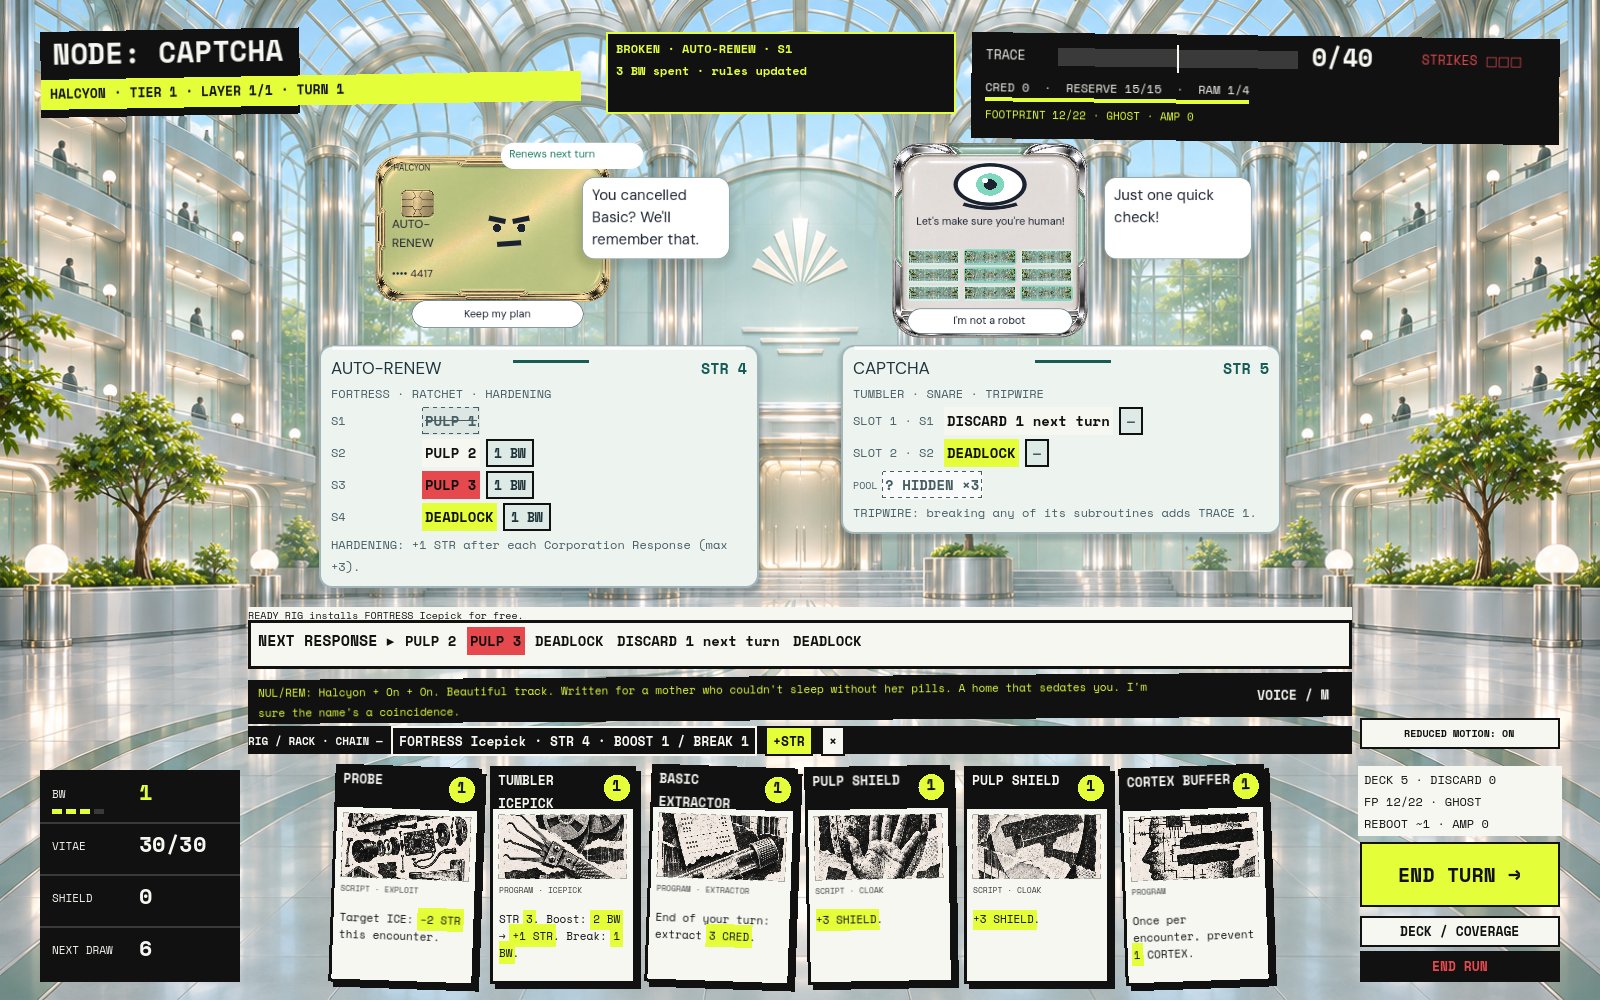
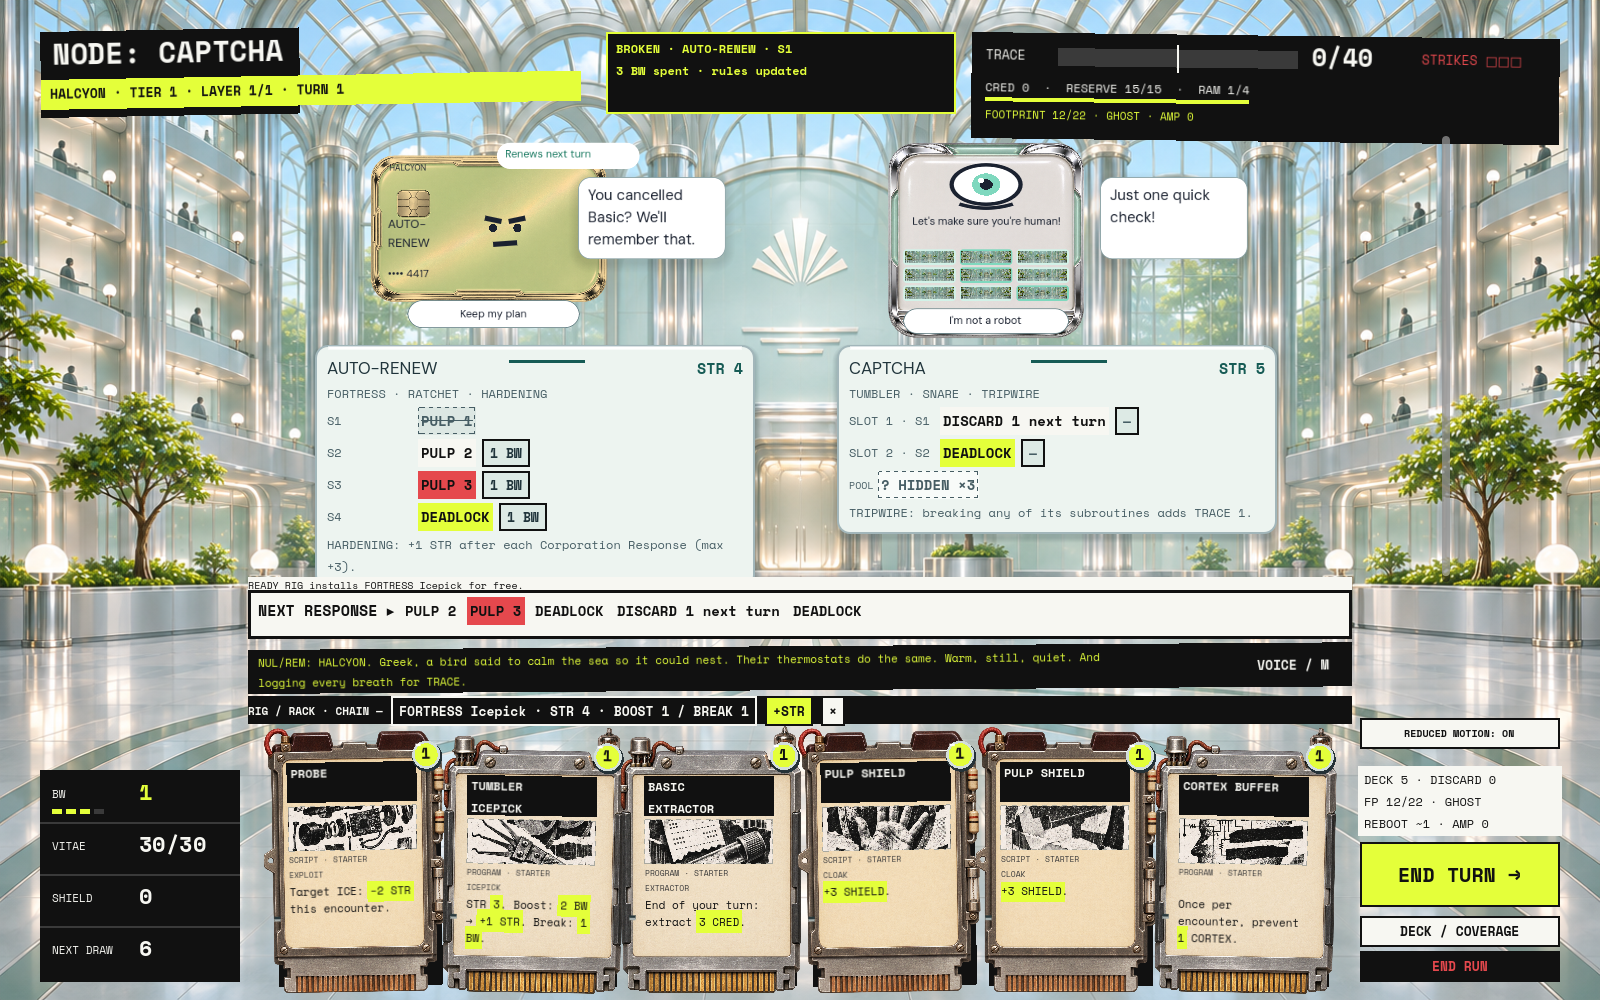
CARDS-001: Add heavy 1950s type-specific cartridges, external BW tabs and restrained rarity finishes

diff --git a/docs/REDLINE_DEVELOPMENT_LOG.md b/docs/REDLINE_DEVELOPMENT_LOG.md
@@ -515,3 +515,13 @@ GENERALIST also has two stalls, counted separately from deaths. Mean end decks G
 **Validation:** Godot 4.3 import and 357 rules checks pass; Friendly Lie 170 checks pass; all five Chrome screenshot stages pass, including actual legal/incompatible native drops and no payment on invalid drops. Refreshed ten full-screen PNGs and the download ZIP. Calculated text contrast: slate/enamel 11.64:1, muted text/enamel 6.25:1, muted text/broken chip 5.51:1, teal/enamel 7.06:1. No rule values changed. The five-step samples in the existing PR are updated in place.
 
 **Interpretations to confirm:** enamel plaques stay clean even in Mask off, reinforcing the corporation's immaculate administrative cruelty. Pearl #EDF4F0, slate #20343B and teal #165B55 are working presentation colors. Final art/fidelity approval remains with the designer. PR #12 remains open targeting `codex/halcyon-playtest-stabilization`; merge is pending that approval.
+
+## 2026-11-17 — CARDS-001: heavy type-specific 1950s slot cartridges (Codex)
+
+**Designer request:** distinct templates for Scripts/other types, subtle common/uncommon/rare differences, vacuum tubes/transistors/exposed wiring/metal/resistors; cards should feel heavy with protruding parts and BW costs mostly outside the white interior. The designer said “Looks good” to the blank carrier art; integrated rules/layout remain for review. No merge authorization for this finished revision is inferred from that art feedback.
+
+**Changed:** SCRIPT stamped steel/Bakelite fuse-and-resistor carrier; PROGRAM cast-aluminum/tube/transistor cassette; PROTOCOL celadon relay/terminal module. Paper labels and live rules sit on the chassis. BW mounts on the upper-right metal tab. Common is plain/single-notch, uncommon has two notches and a brass fitting, rare three notches and fine double-metal detail; full authored rarity labels remain. STARTER and BLOAT classifications remain. Three generated frames are prototype art; Bloatware retains its corporate treatment. Cards are 164×244 with component bounds extending 10 px sideways / 12 px vertically. A shallower hand fan, raised hand/rack spacing and padded choices protect the hardware; protrusions participate in hit-testing. Reward offers and inspection use the same carriers. No card definitions, rarity weights, costs or rules changed.
+
+**Validation:** Godot 4.3 imports; 357 rules pass and 30-seed bot summaries match the pre-card baseline (GENERALIST/ECHO/RIOT/VECTOR clears 25/17/25/20, survivor VITAE 16.2/9.5/15.2/10.7). Nine UI scripts pass. Cartridge fixture: 612 checks / zero failures, including all 112 authored rule texts, the longest legal shared-tag compiled SCRIPT pair, actual rarity, illustration bounds and 6-/8-/16-card protrusion bounds. Existing native hand clicks, HOLD/READY RIG, reward, SCAN/CULL/ZEROED/TUMBLE and five-second reduced-motion response checks remain. Nine individual close-up PNGs plus six/eight-card encounter captures are in `docs/visual/fixtures/cards-001/` and the downloadable ZIP.
+
+**Review:** physical finish details and motif reuse are proposed art choices. Labels/costs remain live data; no gameplay is baked into textures. The revised PR #12 remains open against the shared game branch and awaits designer approval before merge. Audio/Windows export are outside this task. Asset provenance, guide, status and the shared HANDOFF are updated in place.

diff --git a/docs/REDLINE_CURRENT_STATUS.md b/docs/REDLINE_CURRENT_STATUS.md
@@ -16,3 +16,6 @@ Validation: 357 rules checks pass. The 30-seed bot results match the ZEROED/TUMB
 CHROME-001 refines the CAPTCHA encounter toward the designer-selected Chrome Deco direction. The initial flat/thin-rim samples were rejected; the revised candidate uses an illustrated celadon/pearl/chrome atrium, transparent appliance-shell art behind independent face/control layers, and a monochrome collage atlas on paper cards. The same architecture reveals cameras, galleries and restraint stations in the strike/Mask-off background. Rules/scan panels are opaque pearl-enamel service plaques with slate text and silver edges; illustrations are clipped to their frames. Dragging an Icepick highlights legal rows and shows the selected cost/MARGIN or rejection reason in a separate header; successful breaks confirm the BW spent. No gameplay data or rule values changed. Prototype art and visual fidelity await designer review; the corrected concept is a benchmark, not an implementation screenshot. Refreshed per-step PNGs are under `docs/visual/fixtures/chrome-001/`. Existing broader slice systems are unchanged. Audio development remains outside this visual task.
 
 The latest CHROME-001 plaque revision replaces the black ICE rule panels with pearl enamel, slate/slate-teal lettering and soft silver rims. Hidden/broken chips retain dashed/strike-through states on pale backgrounds; legal-target outlines use dark teal for contrast. Rustler paper/toner controls remain distinct. This revision is uploaded to PR #12 but awaits designer approval before merge to the shared game branch.
+
+
+CARDS-001 refines Rustler cards into heavy slot cartridges with paper labels: SCRIPT uses Bakelite/stamped steel, PROGRAM cast aluminum and vacuum tubes, PROTOCOL enamel relay hardware. Exposed wiring, resistors, transistors, contact teeth and guide rails extend beyond the card face. The BW badge mounts on the upper chassis edge outside the white label. Authored rarity is unchanged: common/plain, uncommon two-notch/brass detail, rare three-notch/fine double-metal finish, with printed rarity text; STARTER keeps its label and plain finish. Bloatware stays corporate. Cards are 164×244 with protected component bounds; the hand/rack spacing and choice padding accommodate the frame. The new templates also appear in reward offers and inspection. Nine close-up PNGs and 6-/8-card encounter captures are in `docs/visual/fixtures/cards-001/`. No gameplay/card definitions changed; merge remains pending designer approval of PR #12.

diff --git a/docs/HALCYON_PLAYTEST_GUIDE.md b/docs/HALCYON_PLAYTEST_GUIDE.md
@@ -122,3 +122,10 @@ The CAPTCHA fixture uses actual AUTO-RENEW/CAPTCHA stats and Generalist cards. T
 At TRACE 20 the same atrium reveals a partial surveillance view. First strike shows hostile lighting and the existing “We see you.” modal; second strike reveals the cameras, processing rails and restraint stations while the paper interface remains unchanged. All thresholds and TRACER/Black ICE effects still come from Game.
 
 For the interaction sample, drag the installed FORTRESS Icepick onto AUTO-RENEW S1. Legal rows have dashed dark-teal outlines; the hovered target has a solid outline and the separate top-center feedback box shows the exact BW cost and MARGIN. In this fixture the initial break costs 3 BW including boosts. Release to break: the rule is struck through, AUTO-RENEW becomes wary, and the feedback confirms the cost. Dragging that FORTRESS pick onto CAPTCHA instead shows a red outline and “NO TUMBLER ICEPICK”; releasing spends nothing. The small drag cursor avoids putting a duplicate card-length label or native tooltip over rules. Card hover/keyboard browsing raises the card with a lime paper edge. Existing reduced-motion and five-second-response behaviour remain.
+
+
+## CARDS-001 — vintage slot cartridges
+
+Rustler card types now have distinct physical constructions: SCRIPT instructions in stamped steel/Bakelite with fuse/resistor hardware; PROGRAM devices in cast aluminum with vacuum tubes and metal-can transistors; PROTOCOL relay carriers in celadon enamel with terminal blocks/wiring. Contacts and insertion rails make them read as heavy plug-in cartridges. Paper labels/collage illustrations carry the live card rules. Bloatware remains the clean corporate app-card type.
+
+BW is printed on a raised rating tab at the upper-right chassis edge, largely outside the white label. Common cards have a plain single-notch finish; uncommon cards add two indexing notches and a small brass fitting; rares use three notches and fine double-metal detail. Full rarity labels remain visible, so color alone is not required. STARTER stays STARTER; rarity/reward odds and costs are unchanged. The new frames are used in the hand, HOLD/READY RIG choices, reward offers and inspection. Protruding parts are included in hit-testing and choice-scroll padding. The shallower hand fan makes room for the hardware without a hand-size cap.

diff --git a/docs/HANDOFF.md b/docs/HANDOFF.md
@@ -46,7 +46,8 @@ ZEROED-001, its RIOT cards, and TUMBLE-001 are built; see the tagged rows below.
 
 | IDs | Change | Commit reference |
 |---|---|---|
-| CHROME-001 | Refine the CAPTCHA encounter in the designer-selected Chrome Deco direction: readable real rules/cards, illustrated mascot shells, atrium, corporate escalation and native interaction feedback. Ten refreshed full-screen PNG samples; pearl-enamel ICE service plaques replace black scan panels per designer feedback; prototype art and final fidelity await review. | **BUILT** — `chrome-001-enamel` (code `chrome-001-step5`) |
+| CARDS-001 | Heavy SCRIPT/PROGRAM/PROTOCOL slot-cartridge templates; external BW rating tabs; common/uncommon/rare finish details; protected protrusions; nine close-ups and six/eight-card captures. Types, rarity weights, costs and rules unchanged. | **BUILT** — `cards-001-cartridges` |
+| CHROME-001 | Refine the CAPTCHA encounter in the designer-selected Chrome Deco direction: readable real rules/cards, illustrated mascot shells, atrium, corporate escalation and native interaction feedback. Ten refreshed full-screen PNG samples; pearl-enamel ICE service plaques; type-specific heavy slot cartridges with outside BW tabs and restrained rarity finishes; prototype art and final fidelity await review. | **BUILT** — `chrome-001-enamel` (code `chrome-001-step5`) |
 | VIS-001 | The Friendly Lie encounter: fonts/skins, zine hand/HUD, mascot scans and moods, corporation break states, drag/motion/accessibility, seven PNG review fixtures. Visual only; ZEROED/TUMBLE integrated first. | **BUILT** — `vis-001g` (steps `vis-001a`–`vis-001g`) |
 | TUMBLE-001 | Remove broken TUMBLER subs and tumble immediately active replacements | **BUILT** — `zeroed-tumble-step3` |
 | ZEROED-001-cards | Replace INTEGER UNDERFLOW with NULL POINTER and add RIOT ZEROED cards | **BUILT** — `zeroed-tumble-step2` |

diff --git a/godot/assets/friendly_lie/cartridges/SOURCES.md b/godot/assets/friendly_lie/cartridges/SOURCES.md
@@ -1,0 +1,9 @@
+# Vintage slot-cartridge templates
+
+Generated with OpenAI image generation on 2026-11-17 for the designer's request for heavy 1950s card carriers, external BW tabs, type-specific constructions and restrained rarity differences.
+
+- `script.png`: stamped nickel/steel and Bakelite, exposed cloth-insulated wiring, ceramic resistors and fuse.
+- `program.png`: cast-aluminum case, metal-can transistor, wire loop and glass vacuum tube.
+- `protocol.png`: celadon-enamel relay carrier, terminal block, resistor bank and exposed wiring.
+
+The PNGs are empty template illustrations with transparency. Live Godot controls supply names, costs, type/tags, authored rarity, card rules and art. The authored types remain SCRIPT/PROGRAM/PROTOCOL/BLOATWARE; rarity data and reward odds are unchanged. Common/start-of-run carriers use plain finishes; uncommon/rare indexing and metal details are rendered by code, with full rarity labels for non-color identification. Bloatware retains its corporate app-card treatment. Material details and motif reuse remain prototype artwork pending designer review.
